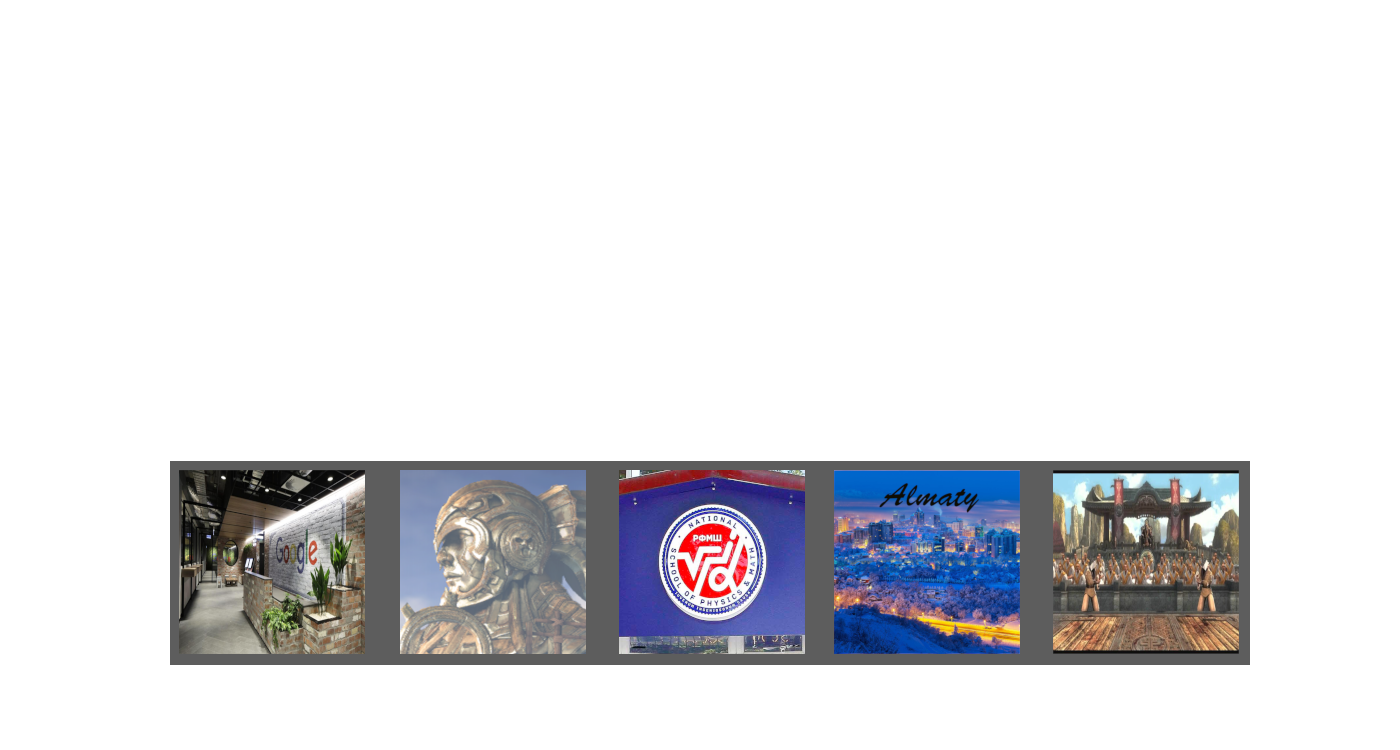
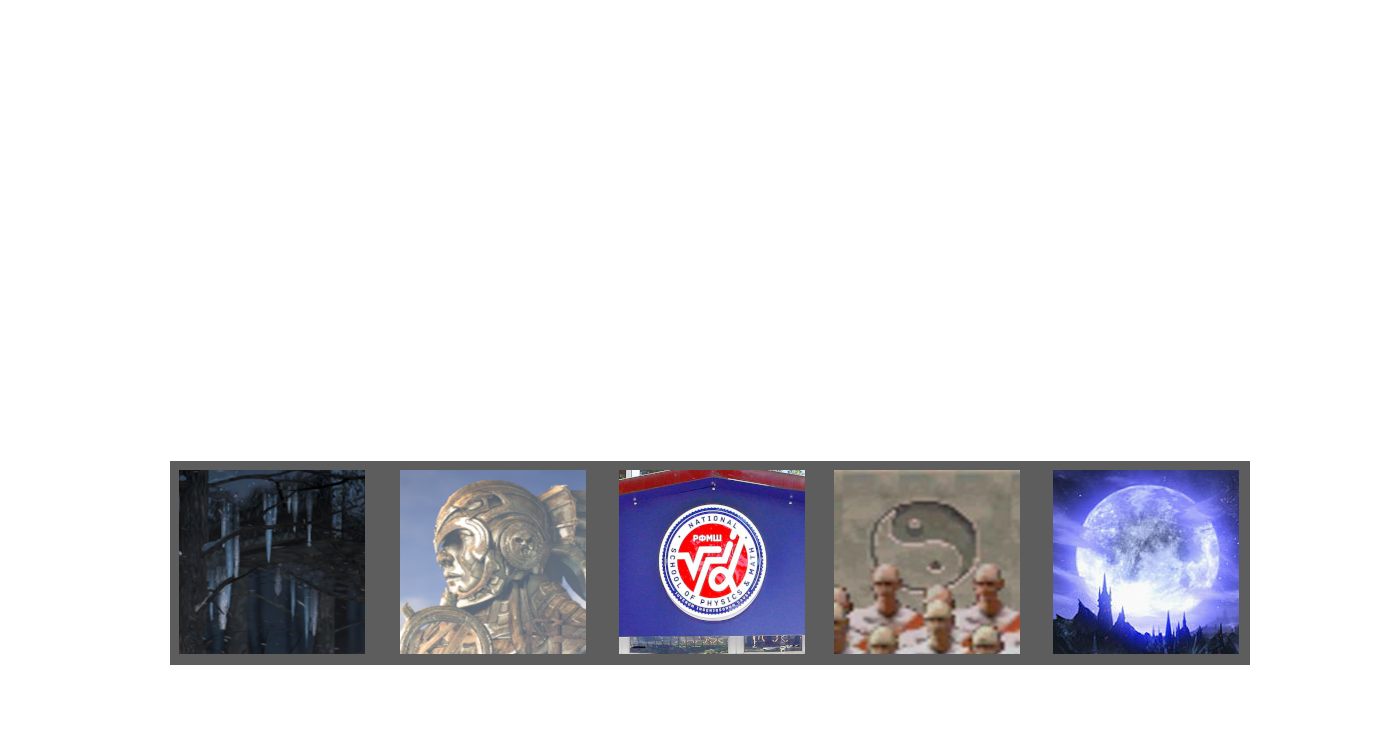
Add files via upload

Changed region(s): [[0.5836, 0.6133, 0.8907, 0.8893], [0.1229, 0.6133, 0.2764, 0.8893]]

diff --git a/MK.py b/MK.py
@@ -8,7 +8,7 @@ pygame.mixer.init()
 size = width, height = 1400, 750
 screen = pygame.display.set_mode(size)
 clock = pygame.time.Clock()
-fps = 60 
+fps = 60
 menu = pygame.image.load(os.path.join('data\misc', 'menu.png'))
 characters_menu = pygame.image.load(os.path.join('data\misc', 'characters_menu.png'))
 characters = pygame.image.load(os.path.join('data\misc', 'characters.png'))
@@ -16,11 +16,11 @@ frame1 = pygame.image.load(os.path.join('data\misc', 'frame_player1.png'))
 frame2 = pygame.image.load(os.path.join('data\misc', 'frame_player2.png'))
 maps = pygame.image.load(os.path.join('data\misc', 'maps.png'))
 
-Almaty = pygame.image.load(os.path.join('data\maps', 'Almaty.png'))
+classic = pygame.image.load(os.path.join('data\maps', 'classic.png'))
 fizmat = pygame.image.load(os.path.join('data\maps', 'fizmat.png'))
 outworld = pygame.image.load(os.path.join('data\maps', 'outworld.png'))
-arena = pygame.image.load(os.path.join('data\maps', 'arena.png'))
-google = pygame.image.load(os.path.join('data\maps', 'google.png'))
+forest = pygame.image.load(os.path.join('data\maps', 'forest.png'))
+pit = pygame.image.load(os.path.join('data\maps', 'pit.png'))
 
 
 fight = pygame.mixer.Sound('data\sounds\sf_fight.ogg')
@@ -160,6 +160,7 @@ def game_loop(character1 = Scorpion(), character2 = Sub_zero(), bg_map = fizmat)
     fatality = pygame.image.load(os.path.join('data\misc', 'fatality.png'))
     scorpion_wins = pygame.image.load(os.path.join('data\misc', 'scorpion_wins.png'))
     sub_zero_wins = pygame.image.load(os.path.join('data\misc', 'sub-zero_wins.png'))
+    pause_img = pygame.image.load(os.path.join('data\misc', 'pause.png'))
     
     sz_fat1 = pygame.mixer.Sound('data\sounds\sz_fat1.ogg')
     sz_fat2 = pygame.mixer.Sound('data\sounds\sz_fat2.ogg')
@@ -168,6 +169,7 @@ def game_loop(character1 = Scorpion(), character2 = Sub_zero(), bg_map = fizmat)
     
     quit = False
     running = True
+    pause = False
     fight.play()
     while running:
         
@@ -194,8 +196,6 @@ def game_loop(character1 = Scorpion(), character2 = Sub_zero(), bg_map = fizmat)
                 if event.key == pygame.K_s:
                     pressed_s = True
                     
-                
-                    
                 if event.key == pygame.K_t and kombo_time_p1 >= 1 and not p1_inv and not kombo_p1:
                     kombo_time_p1 = 0
                     stop_p1 = True
@@ -220,7 +220,13 @@ def game_loop(character1 = Scorpion(), character2 = Sub_zero(), bg_map = fizmat)
                     pressed_up = True             
                             
                 if event.key == pygame.K_DOWN:
-                    pressed_down = True                 
+                    pressed_down = True
+                
+                if event.key == pygame.K_ESCAPE:
+                    if pause:
+                        pause = False
+                    else:
+                        pause = True                
                             
                 if event.key == pygame.K_o and kombo_time_p2 >= 1 and not p2_inv and not kombo_p2:
                     kombo_time_p2 = 0
@@ -290,7 +296,10 @@ def game_loop(character1 = Scorpion(), character2 = Sub_zero(), bg_map = fizmat)
                     p1_image = player1.stand
                     stop_p1 = False
                  
-        if p1_win:
+        if pause:
+            screen.blit(pause_img, (0, 0))        
+        
+        elif p1_win:
             
             p1_image = player1.stand
             p2_image = player2.finish
@@ -754,9 +763,6 @@ def game_loop(character1 = Scorpion(), character2 = Sub_zero(), bg_map = fizmat)
                 kombo_time_p1 -= 1
             
             if punch_p1 and not p1_inv: 
-                if snd1:
-                    punch.play()
-                    snd1 = False
                 if timer1 >= 5:
                     p1_image = player1.punch1
                 else:
@@ -769,12 +775,10 @@ def game_loop(character1 = Scorpion(), character2 = Sub_zero(), bg_map = fizmat)
                     if player1_x + 220 >= player2_x and not p2_inv:
                         freeze_time_p2 = 0
                         dmg_p2 += 3
+                        punch.play()
                     snd1 = True
             
-            if kombo_p1 and not p1_inv:
-                if snd1:
-                    punch.play()
-                    snd1 = False                
+            if kombo_p1 and not p1_inv:              
                 if ktimer_p1 >= 10:
                     p1_image = player1.kombo1
                 else:
@@ -787,6 +791,7 @@ def game_loop(character1 = Scorpion(), character2 = Sub_zero(), bg_map = fizmat)
                     snd1 = True
                     if player1_x + 210 >= player2_x and not p2_inv:
                         dmg_p2 += 5
+                        punch.play()
                         stun_timer_p2 = 0
                         p2_inv_timer = 50
                         p2_inv = True
@@ -863,10 +868,7 @@ def game_loop(character1 = Scorpion(), character2 = Sub_zero(), bg_map = fizmat)
                 kombo_time_p2 -= 1
               
                 
-            if punch_p2 and not p2_inv:
-                if snd2:
-                    punch.play()
-                    snd2 = False                
+            if punch_p2 and not p2_inv:               
                 if timer2 >= 5:
                     p2_image = player2.punch1
                     shift = 20
@@ -882,13 +884,11 @@ def game_loop(character1 = Scorpion(), character2 = Sub_zero(), bg_map = fizmat)
                     if player1_x + 220 >= player2_x and not p1_inv:
                         freeze_time_p1 = 0
                         dmg_p1 += 3
+                        punch.play()
                     snd2 = True
                         
                 
-            if kombo_p2 and not p2_inv:
-                if snd1:
-                    punch.play()
-                    snd1 = False                
+            if kombo_p2 and not p2_inv:                
                 if ktimer_p2 >= 10:
                     p2_image = player2.kombo1
                     shift = 20
@@ -904,6 +904,7 @@ def game_loop(character1 = Scorpion(), character2 = Sub_zero(), bg_map = fizmat)
                     snd2 = True
                     if player1_x + 210 >= player2_x and not p1_inv:
                         dmg_p1 += 5
+                        punch.play()
                         stun_timer_p1 = 0
                         p1_inv_timer = 50
                         p1_inv = True
@@ -1015,6 +1016,9 @@ while is_menu:
             elif 554 <= x <= 816 and 506 <= y <= 600 and event.button == 1 and not chars_menu and not maps_menu:
                 is_menu = False
                 
+            elif 179 <= x <= 364 and 470 <= y <= 653 and event.button == 1 and maps_menu:
+                current_map = forest            
+                
             elif 400 <= x <= 585 and 470 <= y <= 653 and event.button == 1 and maps_menu:
                 current_map = outworld  
                 
@@ -1022,13 +1026,10 @@ while is_menu:
                 current_map = fizmat           
                 
             elif 834 <= x <= 1019 and 470 <= y <= 653 and event.button == 1 and maps_menu:
-                current_map = Almaty          
-            
-            elif 179 <= x <= 365 and 470 <= y <= 653 and event.button == 1 and maps_menu:
-                current_map = google
-            
-            elif 1053 <= x <= 1239 and 470 <= y <= 653 and event.button == 1 and maps_menu:
-                current_map = arena
+                current_map = classic  
+                
+            elif 1053 <= x <= 1238 and 470 <= y <= 653 and event.button == 1 and maps_menu:
+                current_map = pit           
                 
             elif not chars_menu and not maps_menu and event.button == 2:
                 you_suck.play()
